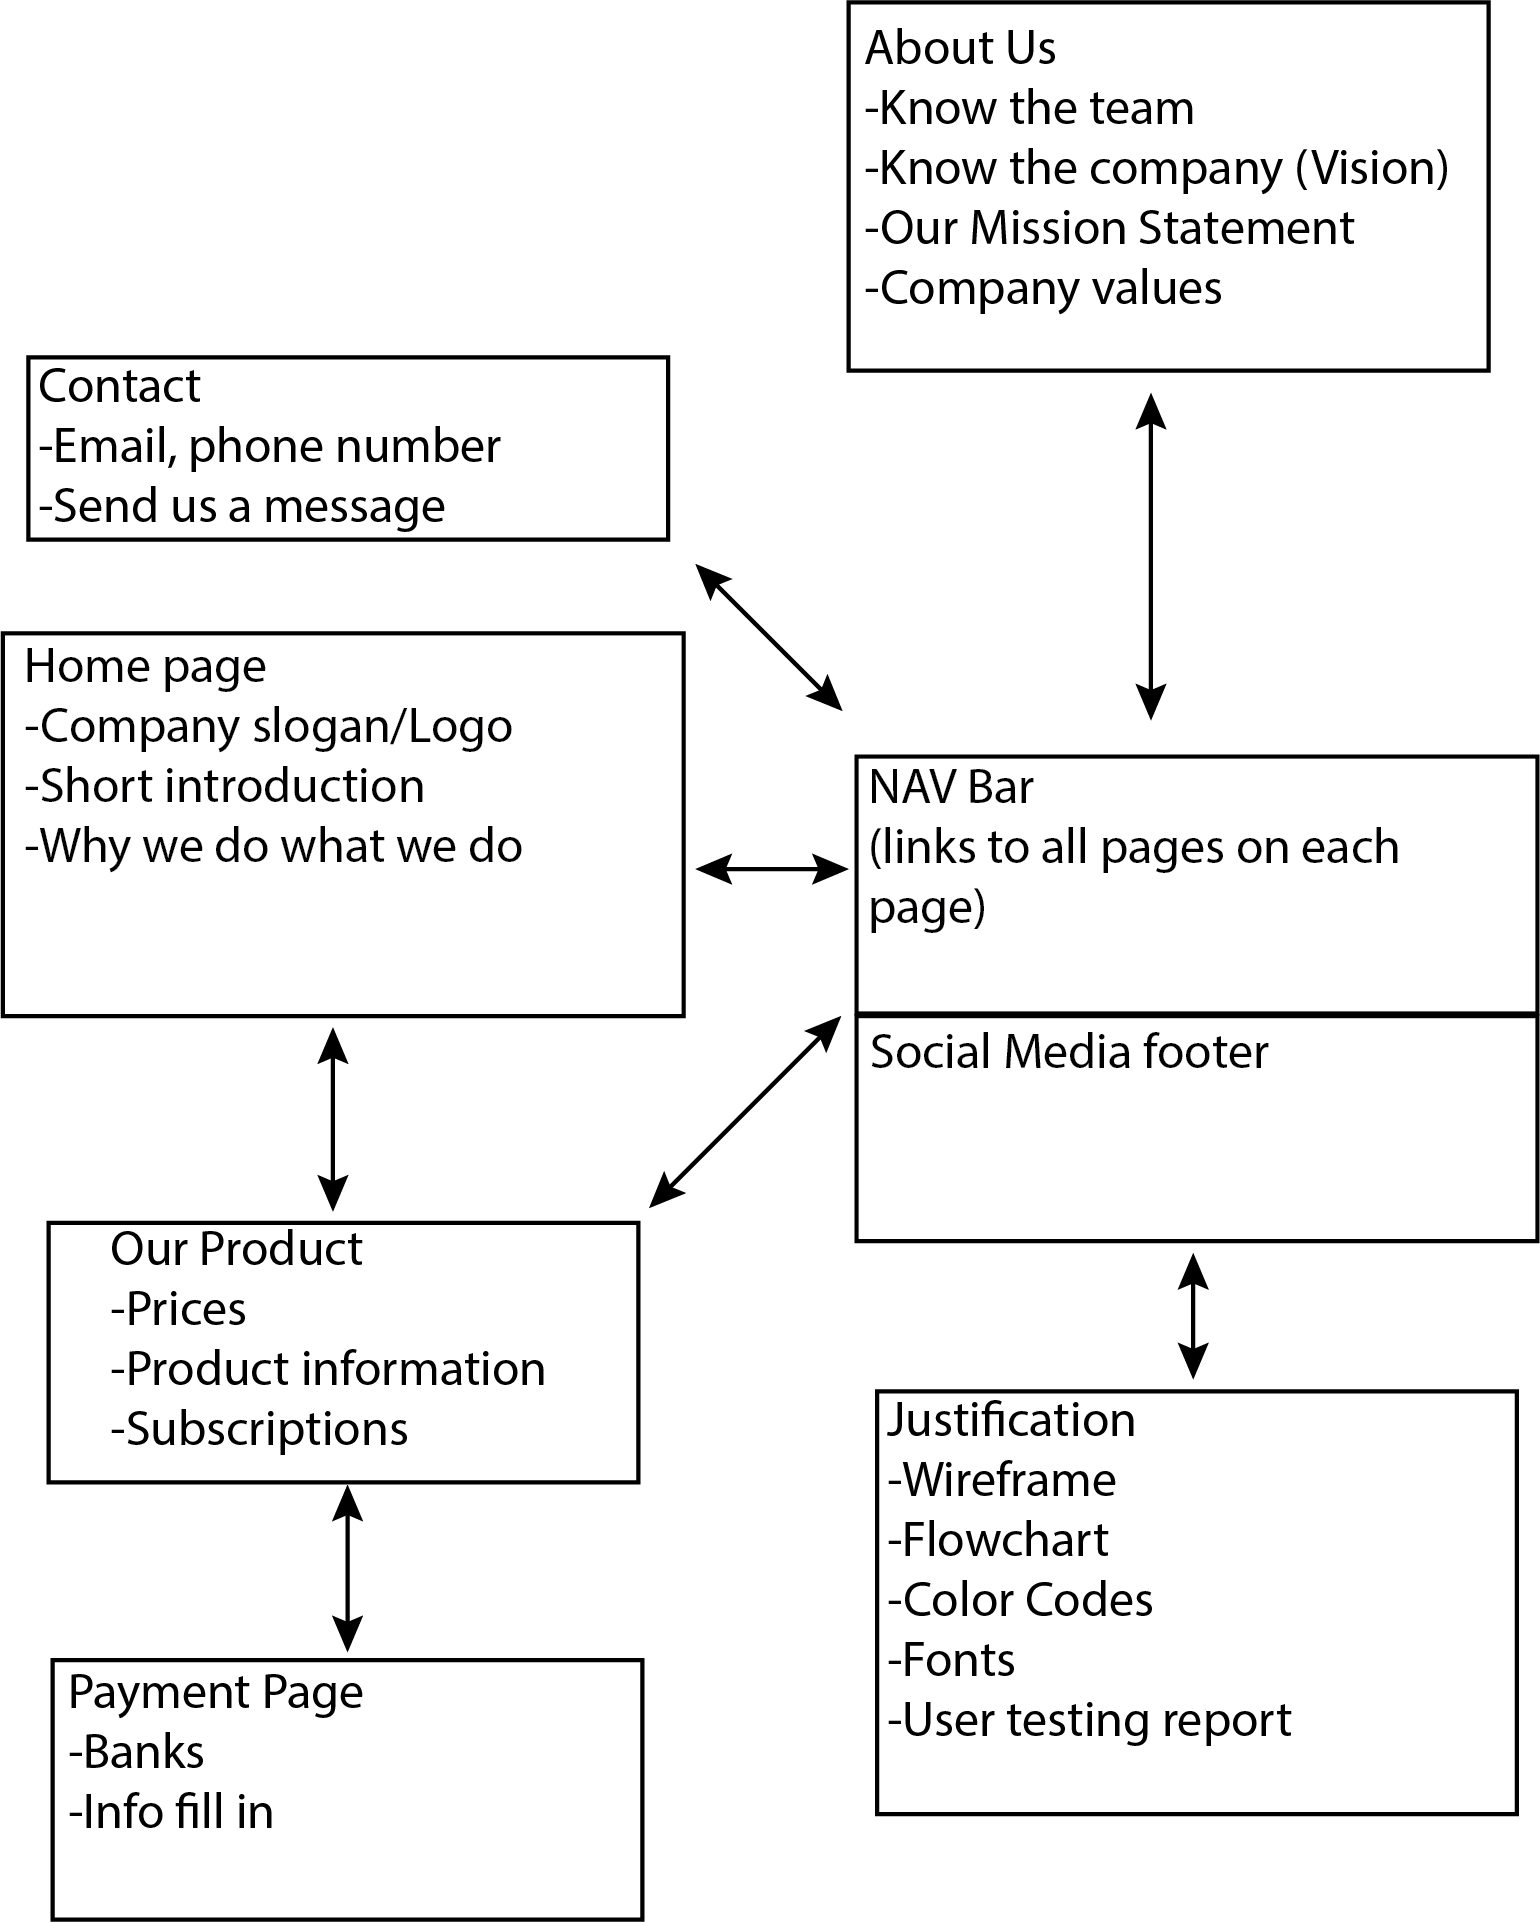
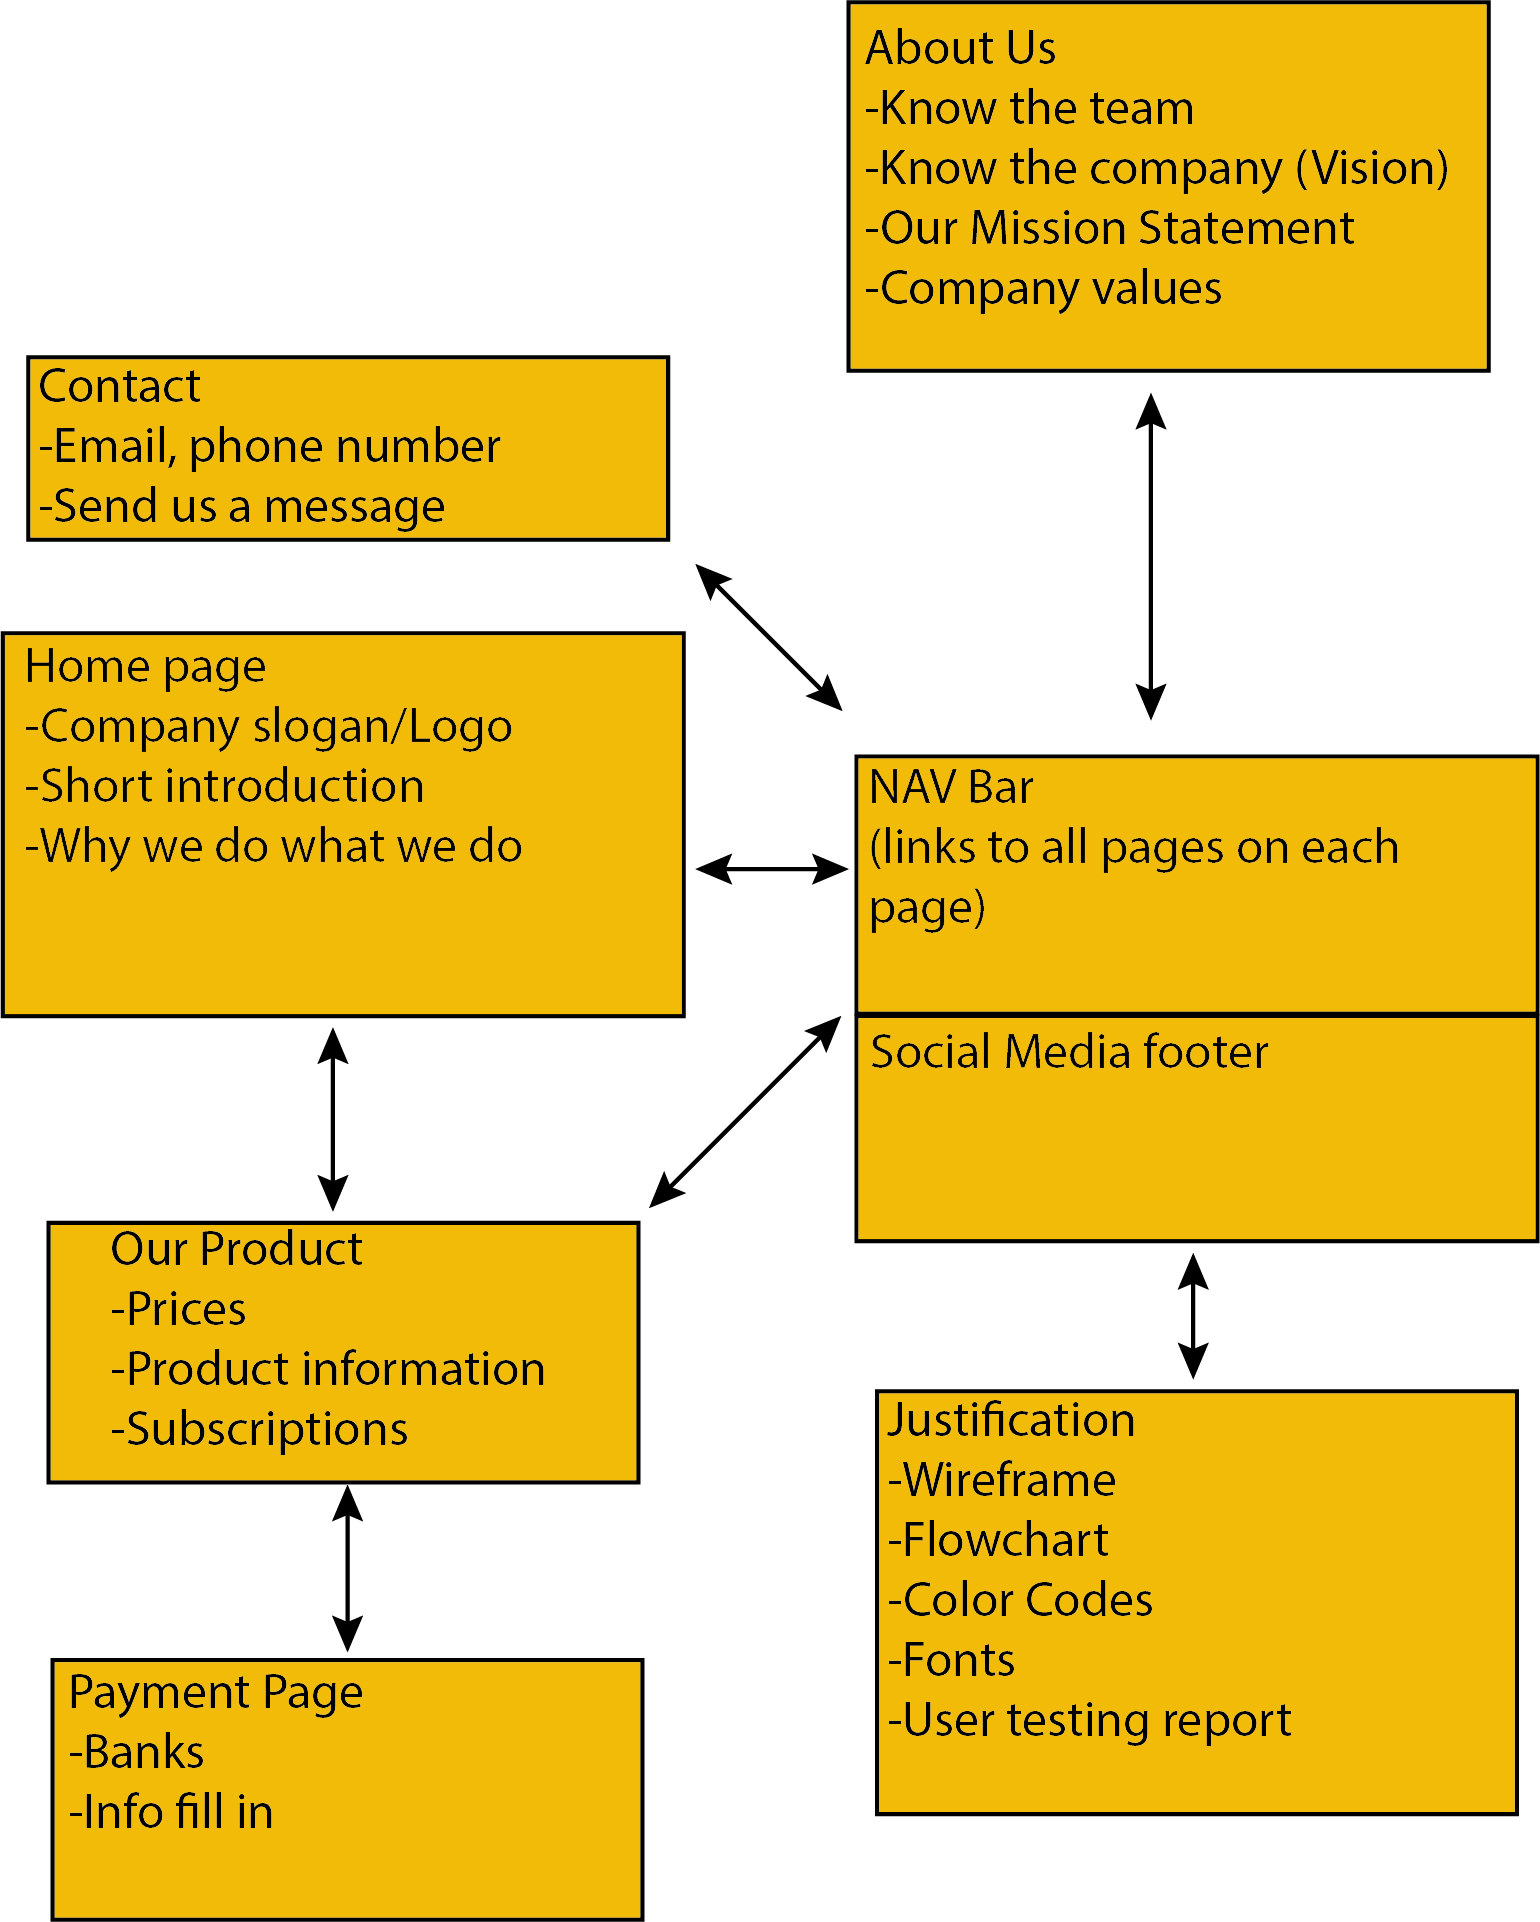
Color fix 1, Index fix and visual aspect fix

diff --git a/index.html b/index.html
@@ -108,10 +108,10 @@
           <div class="col-lg-6 bg-light py-lg-5 order-2 order-lg-1">
             <div class="h-100 d-flex flex-column p-5 justify-content-center text-lg-right">
               <div class="w-100">
-                <h2 class="text-uppercase mb-0" >Sharing our vision</h2>
+                <h2 class="text-uppercase mb-0" >What We Do</h2>
                 <div class="row">
                   <div class="col-lg-10 ml-auto">
-                    <p class="text-muted my-4">When you feel outcasted as most people accept the ordinary life, we believe that you can spark the unexpected in your life only when you explore the undiscovered, because then can you create the extraordinary life you desire.</p>
+                    <p class="text-muted my-4">At SPARK we want to make sure that you live your life to the fullest by fostering and thriving in Curiosity. We believe that in this day and age of working 9 to 5 exploration can use a guiding had to make it SPARK for everyone, as it has for all of human history.</p>
                   </div>
                 </div>
               </div>
@@ -129,7 +129,7 @@
           <div class="col-lg-6 bg-light py-lg-5">
             <div class="h-100 d-flex flex-column p-5 justify-content-center">
               <p class="text-serif text-primary mb-0"></p>
-              <h2 class="text-uppercase">Sharing Our Mission</h2>
+              <h2 class="text-uppercase">How we do it</h2>
               <ul class="list-check pl-0">
                 <li>
                   <p class="mb-0 text-muted mb-2">At Spark, we strive to make people experience new things. Step out of their comfort zone and with this, create the extraordinary life they desire.
@@ -137,7 +137,7 @@ At Spark, we strive to make people experience new things. Step out of their comf
 </p>
                 </li>
                 <li>
-                  <p class="mb-0 text-muted mb-2">We do this by providing our customers with a new experience every month. Through this, the only thing that is left to do is: experience and discover that extraordinary life!</p>
+                  <p class="mb-0 text-muted mb-2">Our team of curisosity finders, scan the world for meaningfull experienceses that you can then either enjoy with yourself and your family, or gift to a friend. This way we want to make sure that everyone can share in exploring the vast cultures, wonders and cuisine of the world! <br> After Signing up, you will recieve a monthly pacage filled with tickets and vouchers of wich you can pick whatever one you like to experiance or share.</p>
                 </li>
               </ul>
             </div>

diff --git a/css/style1.css b/css/style1.css
@@ -62,8 +62,17 @@ header.masthead .intro-text .intro-heading {
 }
 
 h1 {
-	color: white ;
+	color: #F2BB07 ;
 	text-align: center ;
+}
+
+
+h5 {
+	color: #F2BB07 ;
+}
+
+p{
+	color:#3d3d3d ;
 }
 
 .container-fluid{
@@ -78,8 +87,8 @@ h1 {
     line-height: 75px;
     margin-bottom: 50px;
     font-family: Montserrat,Helvetica Neue,Helvetica,Arial,sans-serif;
-    color: #FFFFFF;
-    text-shadow: 6px 6px #000000;
+    color: #F2BB07;
+    text-shadow: 3px 6px #000000;
   }
 }
 
@@ -434,7 +443,7 @@ font-family:Baskerville, "Palatino Linotype", Palatino, "Century Schoolbook L", 
 
 @media (min-width: 576px) {
 	.payment-form .title {
-		font-size: 1.2em; 
+		font-size: 1.2em;
 	}
 
 	.payment-form .products {
@@ -450,10 +459,43 @@ font-family:Baskerville, "Palatino Linotype", Palatino, "Century Schoolbook L", 
 	}
 
   	.payment-form .card-details {
-    	padding: 40px 40px 30px; 
+    	padding: 40px 40px 30px;
     }
 
   	.payment-form .card-details button {
-    	margin-top: 2em; 
+    	margin-top: 2em;
+		Background-color: #F2BB07 ;
     } 
+	
+}
+
+a {
+  color: #F2BB07 ;
+}
+a:hover {
+  color: #223B5B ;
+}
+a:visited {
+	color: #87986A ;
+}
+
+h2 {
+	color: #F2BB07 ;
+}
+
+.btn {
+	background-color: #F2BB07 ;
+}
+.btn-primary {
+	background-color: #F2BB07 ;
+}
+.btn:hover {
+	background-color: #223B5B ;
+}
+.btn-primary:hover {
+	background-color: #223B5B ;
+}
+
+.btn:active {
+	background-color: #87986A ;
 }

diff --git a/justification.html b/justification.html
@@ -22,7 +22,7 @@
 </script>
   </head>
   <body id="page-top">
-	  <nav class="navbar navbar-expand-lg navbar-light bg-light">
+	  <nav class="navbar navbar-expand-lg navbar-#F2BB07 bg-dark">
   <a class="navbar-brand" href="index.html"><img class="img-fluid" src="images/sparklogo.png" width="105" height="60" alt=""> </a>
   <button class="navbar-toggler" type="button" data-toggle="collapse" data-target="#navbarSupportedContent" aria-controls="navbarSupportedContent" aria-expanded="false" aria-label="Toggle navigation">
     <span class="navbar-toggler-icon"></span>

diff --git a/product.html b/product.html
@@ -24,7 +24,7 @@
 	
 <body id="page-top">
 	  
-	  <nav class="navbar navbar-expand-lg navbar-light bg-light">
+	  <nav class="navbar navbar-expand-lg navbar-#F2BB07 bg-dark">
   <a class="navbar-brand" href="index.html"><img class="img-fluid" src="images/sparklogo.png" width="105" height="60" alt=""> </a>
   <button class="navbar-toggler" type="button" data-toggle="collapse" data-target="#navbarSupportedContent" aria-controls="navbarSupportedContent" aria-expanded="false" aria-label="Toggle navigation">
     <span class="navbar-toggler-icon"></span>
